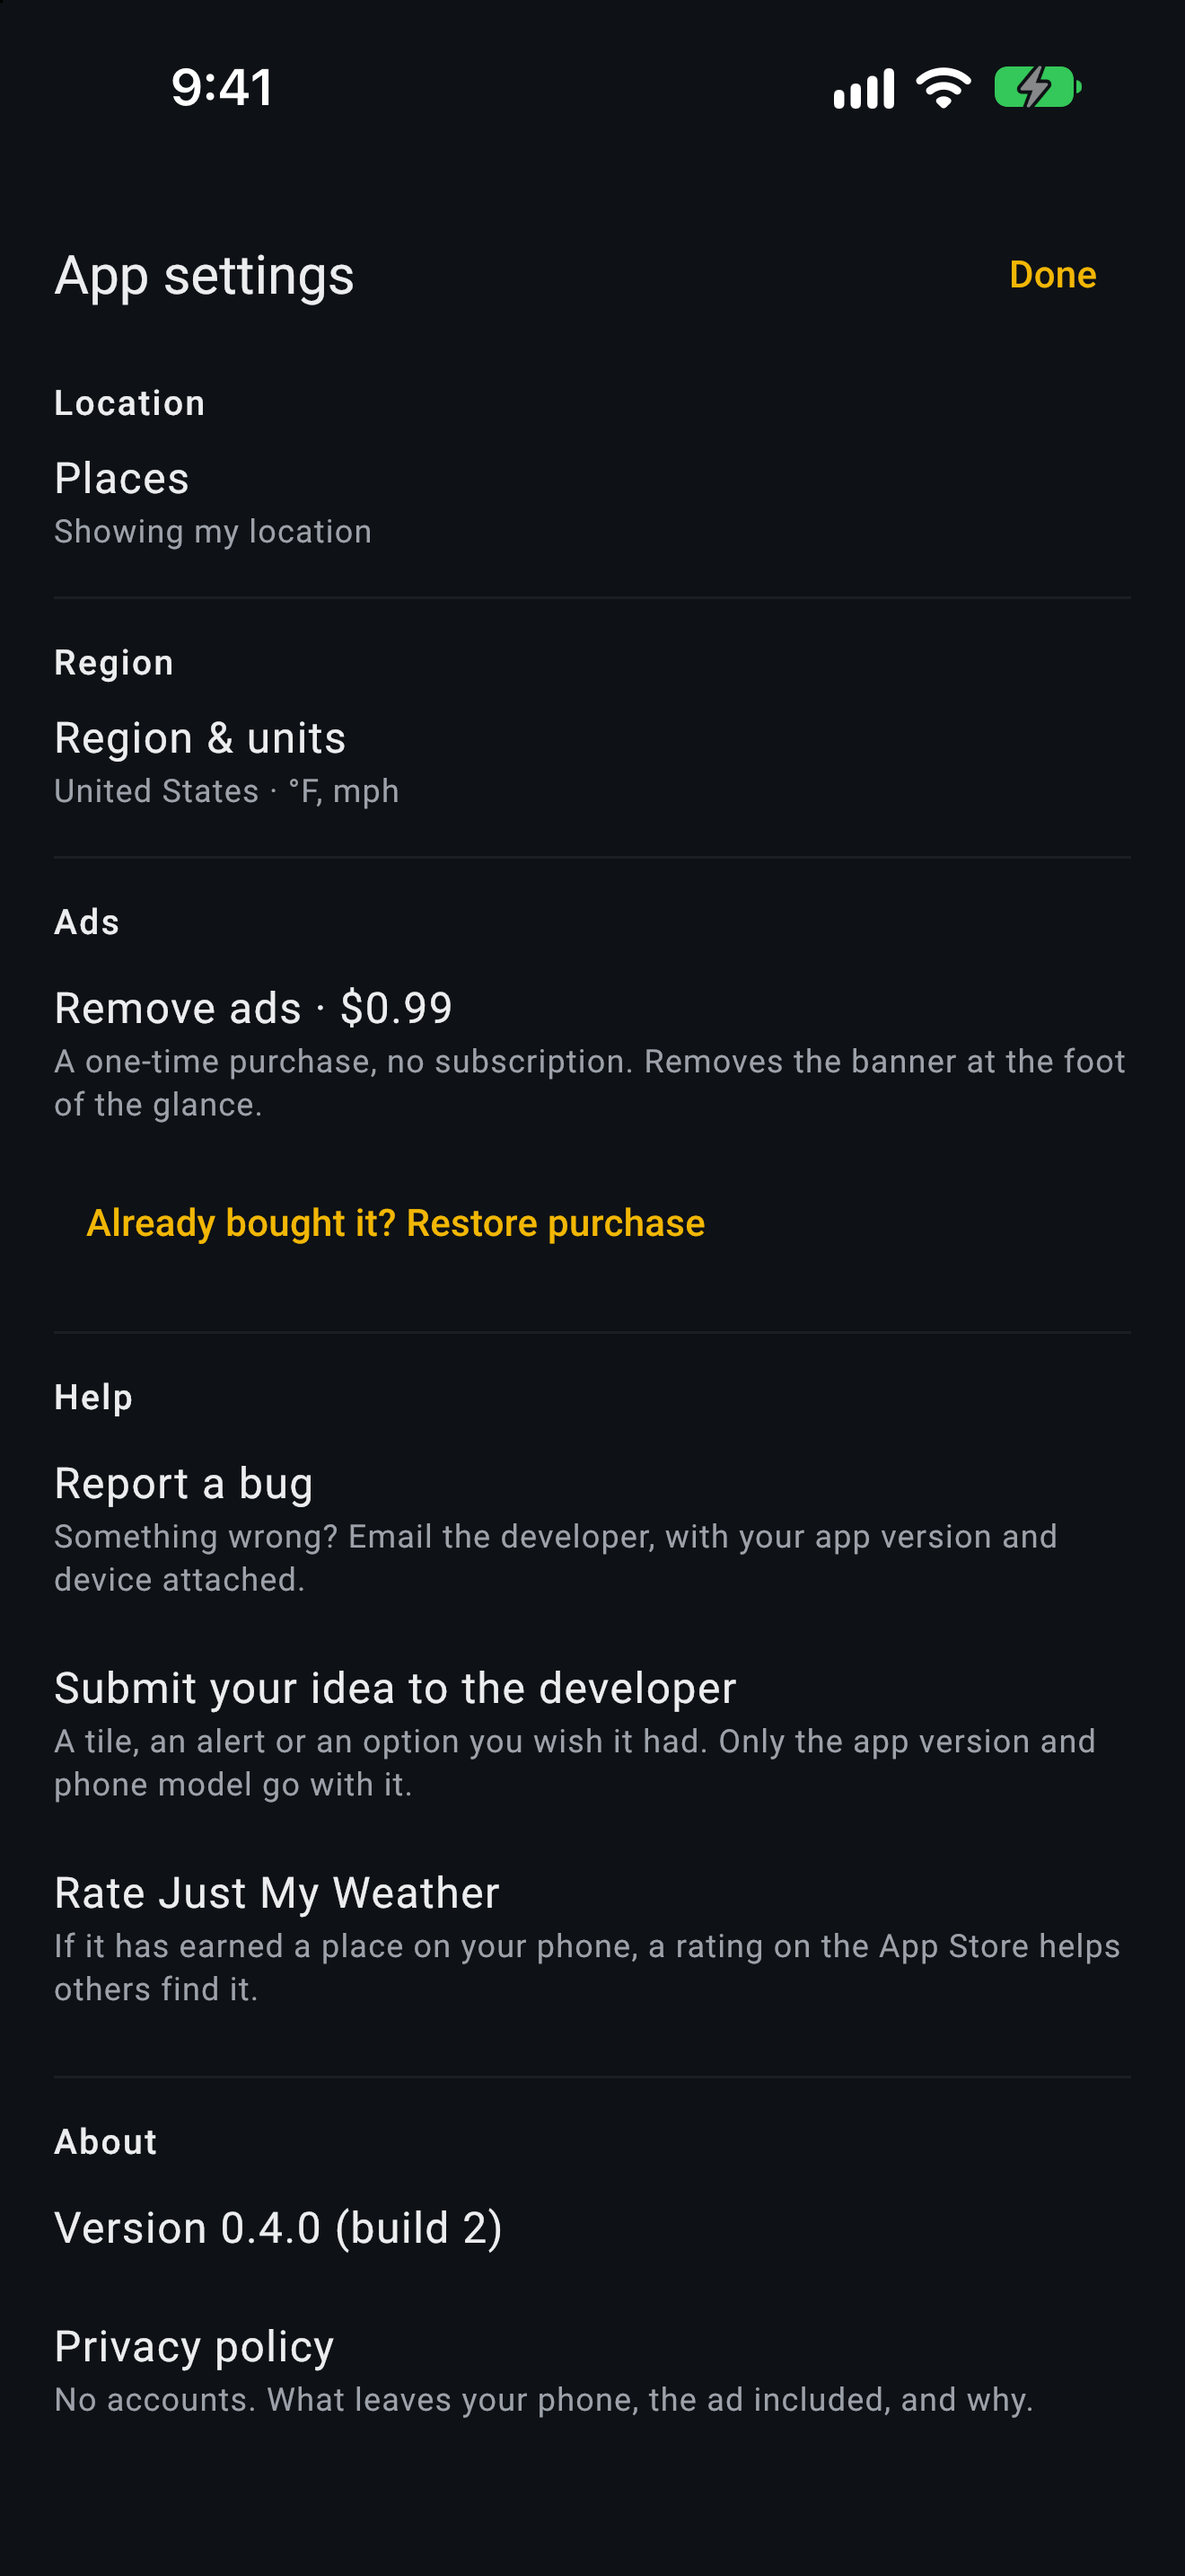
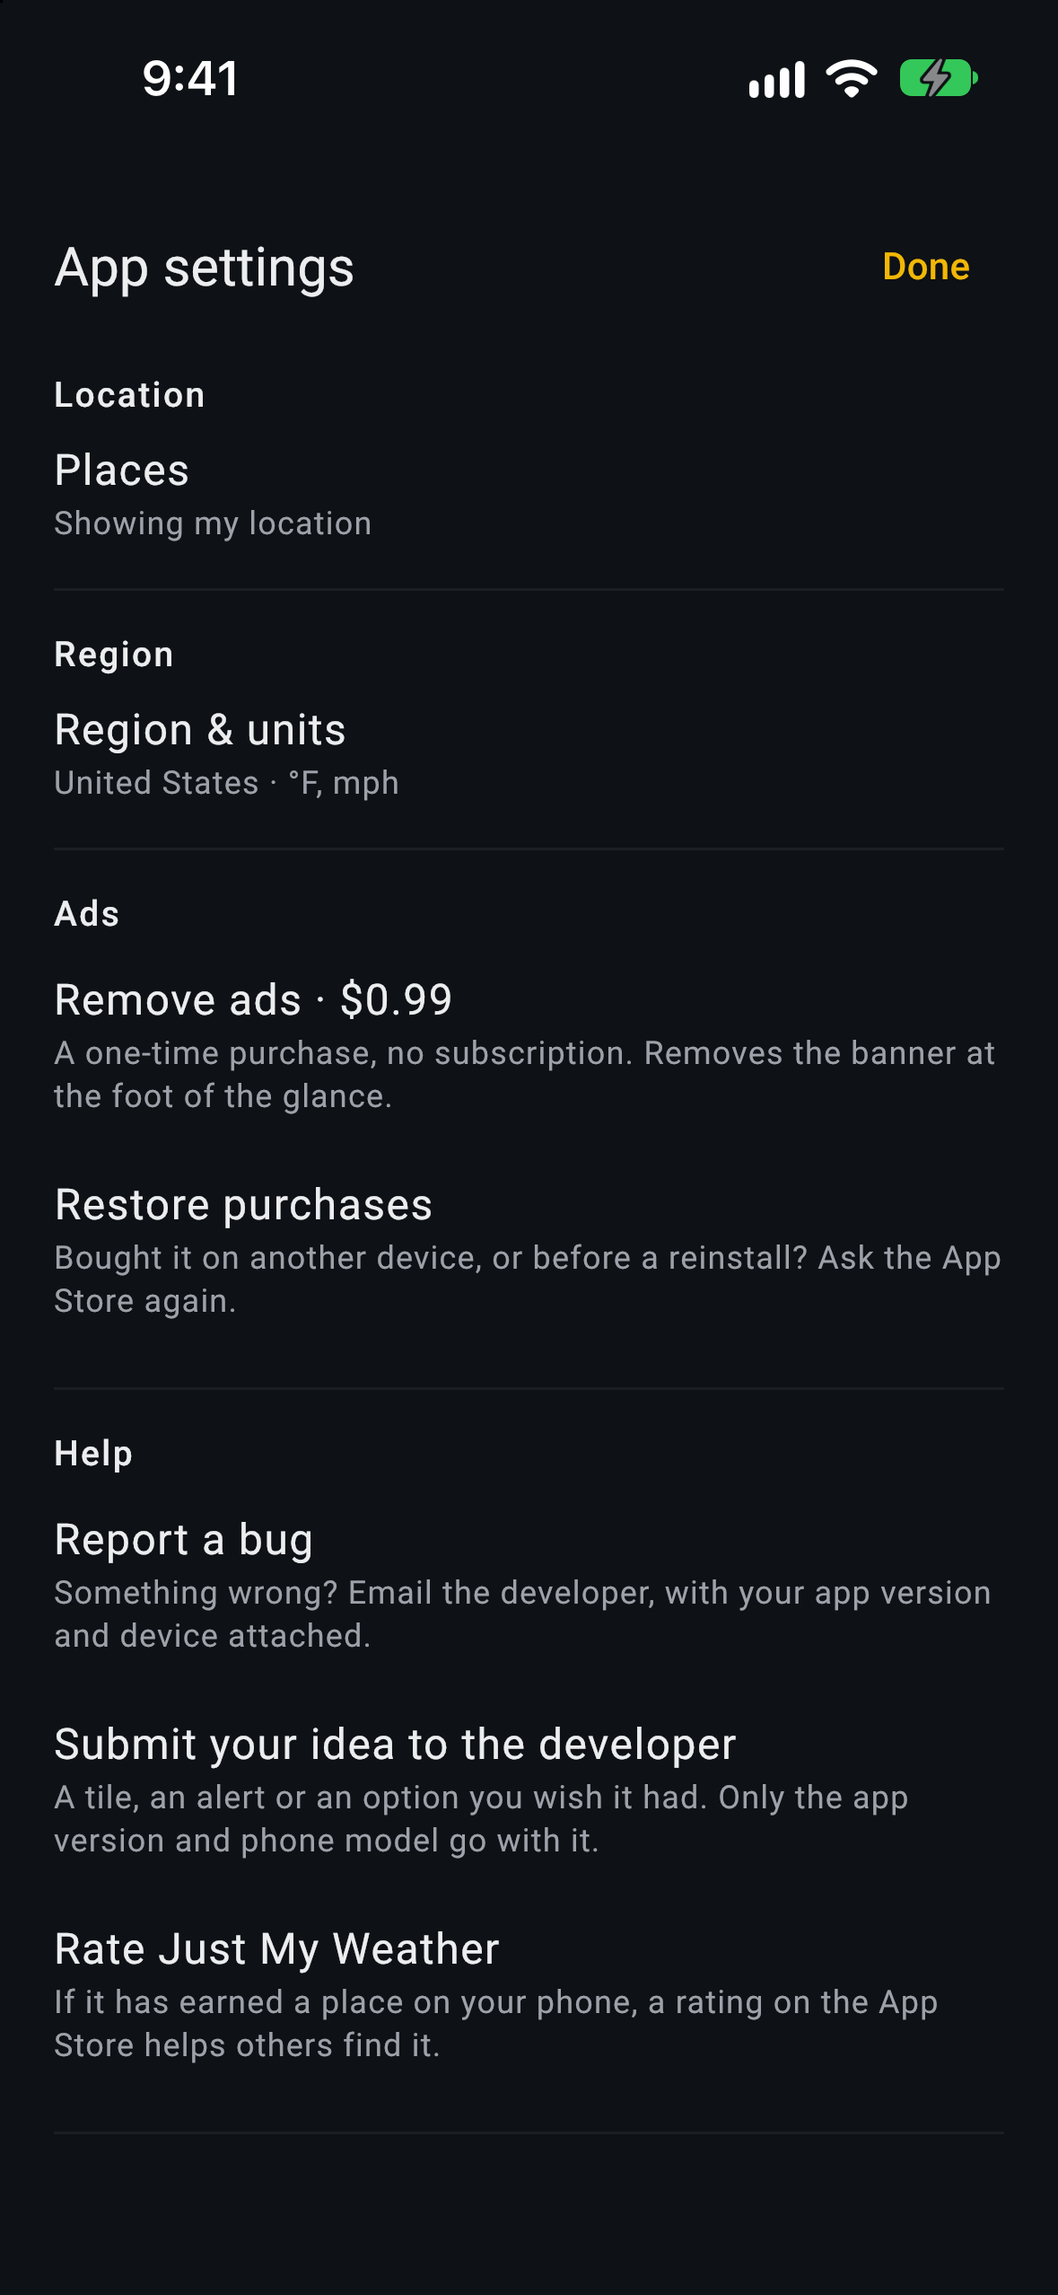
docs(store): recapture the IAP review screenshot with the Restore purchases row; drop the demo-video placeholder
The 3.1.1 rejection screenshot still showed the old 'Already bought it?' link
and build 2. The new capture (dark, 9:41 status bar) shows the row the
reviewer asked for. The reviewer-notes template no longer carries a
'Demo video: <link>' line: the 0.4.0 submission was checked via the ASC API
and never had one.

diff --git a/store-assets/app-store-listing.md b/store-assets/app-store-listing.md
@@ -223,7 +223,7 @@ Re-check after any Google SDK upgrade: the manifests are the source.
 | Price | USD 0.99 |
 | Display name (en-US) | Remove ads |
 | Description (en-US) | One purchase removes the banner for good. |
-| Review screenshot | App Settings with the Remove Ads row, from the simulator (the local StoreKit configuration shows the $0.99 price). |
+| Review screenshot | `store-assets/screenshots/ios/iap-review-remove-ads.png`: App Settings with the Remove ads row and the Restore purchases row under it (recaptured 2026-11-02 for just-my-weather-i3b; re-upload with the 0.4.2 resubmission so it matches the build). |
 | Family Sharing | Off (as in `Products.storekit`). **TBD** whether to turn it on. |
 
 The first submission must include the in-app purchase with the version, or
@@ -269,9 +269,12 @@ Just My Weather is a weather app that shows only the data points the user picks,
 
 6. IN-APP PURCHASE. "Remove ads" (remove_ads_just_my_weather), a $0.99 non-consumable in App Settings, removes the banner. "Restore purchases" is the row under it, in every state of the Ads section (also after the purchase); it calls AppStore.sync() and re-reads the entitlements.
 
-Demo video: <link>
 Contact: dev@raylytics.io
 ```
+
+The 0.4.0 submission's notes (read back from App Store Connect
+2026-11-02) were this text without a video line; keep it that way unless
+a video is actually attached (a placeholder is a 2.1(a) rejection).
 
 ---
 

diff --git a/store-assets/screenshots/ios/README.md b/store-assets/screenshots/ios/README.md
@@ -6,6 +6,15 @@ plus `iap-review-remove-ads.png` for the Remove ads purchase's review
 screenshot. The Android set lives one level up, in `screenshots/` and
 `screenshots/final/`.
 
+`iap-review-remove-ads.png` was recaptured 2026-11-02 on the project's
+iPhone 16 simulator (1179 × 2556; the purchase screenshot has no size
+class) after the Restore purchases row replaced the old text link
+(just-my-weather-i3b). Upload it to the in-app purchase's review
+screenshot in App Store Connect when the row ships. A build installed
+with `simctl install` has no StoreKit configuration, but the sandbox
+still answers the product query without a sign-in, so the $0.99 price
+shows; dismiss the "Sign in to Apple Account" prompts first.
+
 How the 2026-10-14 set was made: Google's test banner was painted over with
 the page background on 01, 02 and 04 (the buy sheet asks for a real sandbox
 Apple Account when the app is installed with `simctl install`, so the local
